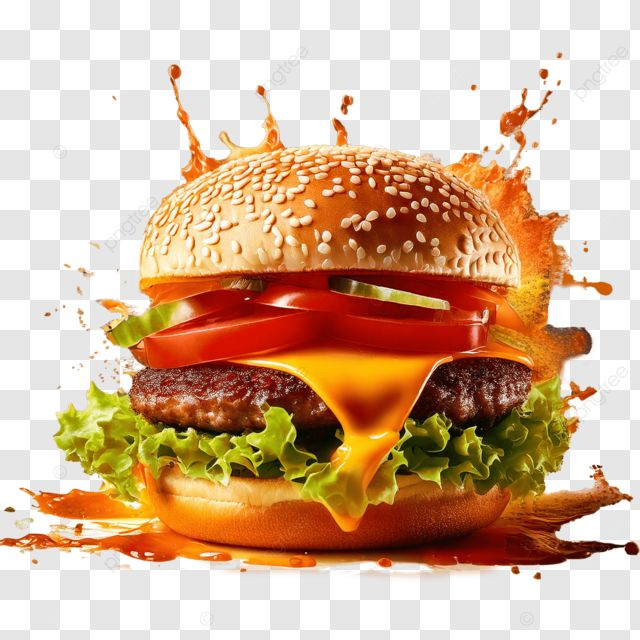
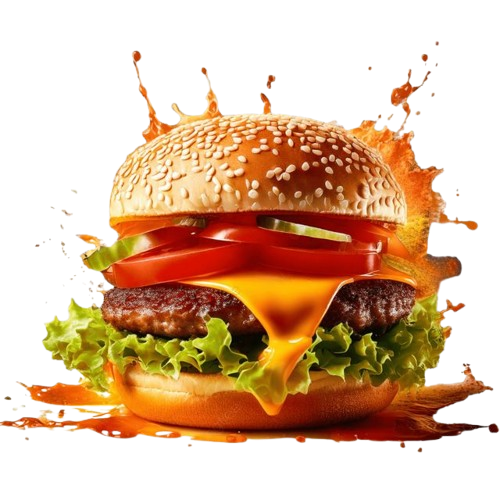
few more images added

Changed region(s): [[0.0, 0.0, 1.0, 1.0]]

diff --git a/static/css/style.css b/static/css/style.css
@@ -256,76 +256,121 @@ header{
 =========================== */
 
 .order-section{
-    background:#fff8f5;
+    background:#f8f8f8;
     padding:80px 20px;
-    display:flex;
-    justify-content:center;
 }
 
 .order-card{
+
     width:100%;
     max-width:700px;
+
+    margin:auto;
+
     background:#ffffff;
-    border-radius:20px;
-    padding:40px;
-    box-shadow:0 15px 40px rgba(0,0,0,0.15);
+
+    padding:45px;
+
+    border-radius:24px;
+
+    box-shadow:0 20px 50px rgba(0,0,0,.12);
+
 }
 
 .order-card h2{
+
     text-align:center;
+
     color:#ff6b35;
-    margin-bottom:30px;
-    font-size:32px;
+
+    margin-bottom:35px;
+
+    font-size:34px;
+
 }
 
 .order-card form{
+
     display:flex;
+
     flex-direction:column;
-    gap:18px;
+
 }
 
 .order-card label{
+
+    margin-top:18px;
+
+    margin-bottom:8px;
+
     font-weight:600;
-    color:#444;
+
 }
 
 .order-card input,
-.order-card select,
-.order-card textarea{
+.order-card textarea,
+.order-card select{
+
     width:100%;
-    padding:14px;
+
+    padding:15px;
+
+    border-radius:12px;
+
     border:1px solid #ddd;
-    border-radius:10px;
+
     font-size:16px;
-    outline:none;
-    transition:0.3s;
+
+    transition:.3s;
+
+}
+
+.order-card textarea{
+
+    resize:none;
+
 }
 
 .order-card input:focus,
-.order-card select:focus,
-.order-card textarea:focus{
-    border-color:#ff6b35;
-    box-shadow:0 0 10px rgba(255,107,53,.25);
-}
+.order-card textarea:focus,
+.order-card select:focus{
 
-.order-card textarea{
-    resize:none;
+    outline:none;
+
+    border-color:#ff6b35;
+
+    box-shadow:0 0 10px rgba(255,107,53,.25);
+
 }
 
 .order-card button{
-    margin-top:10px;
+
+    margin-top:30px;
+
     padding:16px;
-    border:none;
-    border-radius:12px;
+
     background:#ff6b35;
-    color:#fff;
+
+    color:white;
+
+    border:none;
+
+    border-radius:14px;
+
     font-size:18px;
+
     font-weight:600;
+
     cursor:pointer;
+
     transition:.3s;
+
 }
 
 .order-card button:hover{
+
     background:#ff824d;
-    transform:translateY(-2px);
+
+    transform:translateY(-3px);
+
 }

diff --git a/static/js/script.js b/static/js/script.js
@@ -1,0 +1,22 @@
+// Get elements
+const foodSelect = document.getElementById("food_item");
+const otherFoodDiv = document.getElementById("otherFoodDiv");
+
+// Run only if the elements exist
+if (foodSelect && otherFoodDiv) {
+
+    foodSelect.addEventListener("change", function () {
+
+        if (this.value === "Other") {
+
+            otherFoodDiv.style.display = "block";
+
+        } else {
+
+            otherFoodDiv.style.display = "none";
+
+        }
+
+    });
+
+}